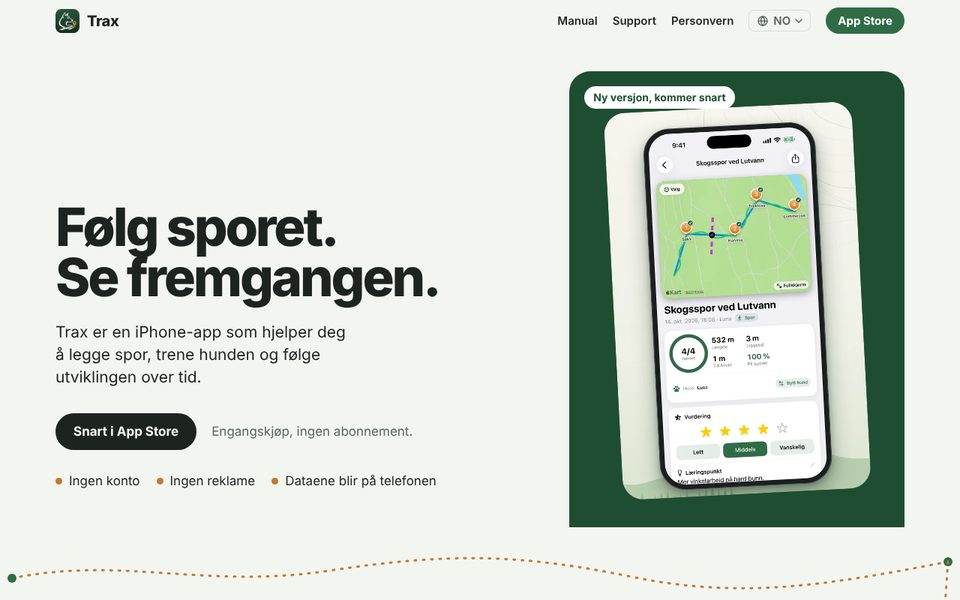
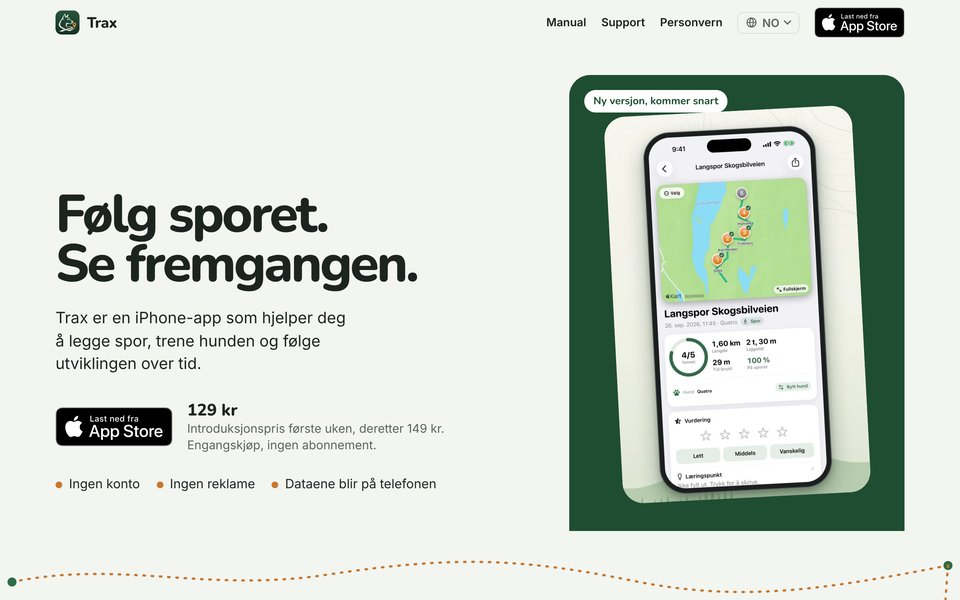
Nytt skjermbilde av trax-dogtracking.no
Silje har endret font og layout på Trax-nettsiden.

Claude-Session: https://claude.ai/code/session_01Muf7BshDAPDi8qXL1Q3pEW

diff --git a/site/en/index.html b/site/en/index.html
@@ -216,7 +216,7 @@
           <a class="site-card" href="https://trax-dogtracking.no/">
             <div class="browser">
               <div class="browser-bar" aria-hidden="true"><span></span><span></span><span></span><b>trax-dogtracking.no</b></div>
-              <img src="../img/nettside-trax.jpg?v=2" alt="The front page of trax-dogtracking.no" width="960" height="600" loading="lazy">
+              <img src="../img/nettside-trax.jpg?v=3" alt="The front page of trax-dogtracking.no" width="960" height="600" loading="lazy">
             </div>
             <span class="site-name">trax-dogtracking.no →</span>
             <span class="site-desc">Website for Trax in Norwegian, Swedish and English, with a user manual.</span>

diff --git a/site/index.html b/site/index.html
@@ -216,7 +216,7 @@
           <a class="site-card" href="https://trax-dogtracking.no/">
             <div class="browser">
               <div class="browser-bar" aria-hidden="true"><span></span><span></span><span></span><b>trax-dogtracking.no</b></div>
-              <img src="img/nettside-trax.jpg?v=2" alt="Forsiden til trax-dogtracking.no" width="960" height="600" loading="lazy">
+              <img src="img/nettside-trax.jpg?v=3" alt="Forsiden til trax-dogtracking.no" width="960" height="600" loading="lazy">
             </div>
             <span class="site-name">trax-dogtracking.no →</span>
             <span class="site-desc">Nettside for Trax på norsk, svensk og engelsk, med brukermanual.</span>
